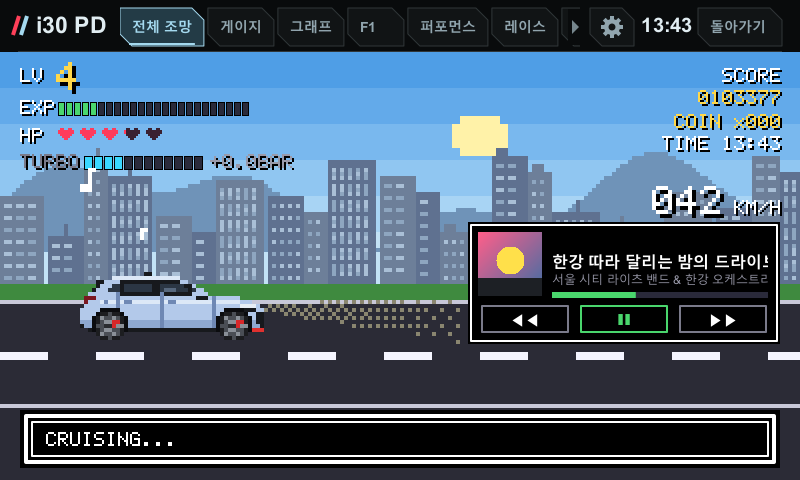
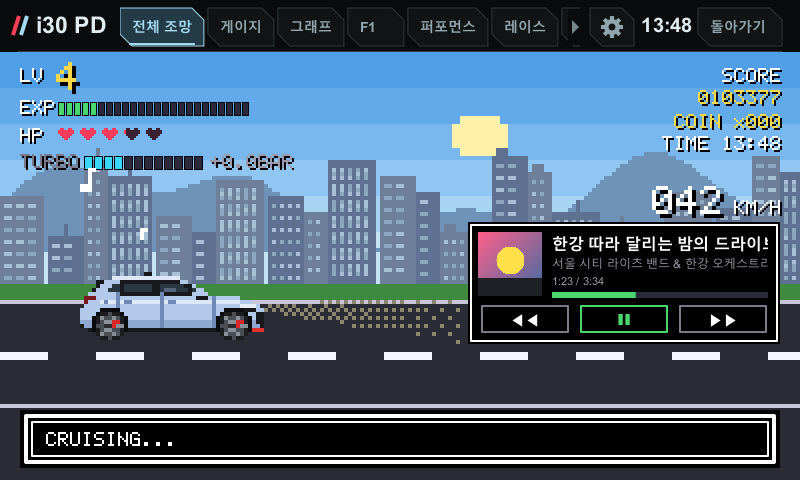
Music box: title and artist move up into the old PLAY row; elapsed / total in small type just above the bar, in 8비트 too

Changed region(s): [[0.6875, 0.4688, 0.9688, 0.5938], [0.9375, 0.2812, 1.0, 0.3125]]

diff --git a/shared/src/com/veloster/vehicle/PixelCluster.java b/shared/src/com/veloster/vehicle/PixelCluster.java
@@ -262,20 +262,19 @@ final class PixelCluster extends ClusterKit {
         String trk=music.title+"|"+music.artist;if(!trk.equals(mpTrack)){mpTrack=trk;mpSince=now;}   // a new track starts at its first letter
         fill(c,l,t,r,t+mpH(),0xff000000);outline(c,l+2,t+2,r-2,t+mpH()-2,0,2,W);
         String tm=null;
-        if(chase&&music.hasProgress()){long ps=Math.min(music.durationMs,music.positionMs+(pl?music.timeAgeMs:0))/1000,ds=music.durationMs/1000;   // Arcade only: one small line
+        if(music.hasProgress()){long ps=Math.min(music.durationMs,music.positionMs+(pl?music.timeAgeMs:0))/1000,ds=music.durationMs/1000;
             tm=String.format(Locale.US,"%d:%02d / %d:%02d",ps/60,ps%60,ds/60,ds%60);}
-        float tx,tw,ty,ay,by0;   // text column: left, width, title baseline, artist baseline, progress bar top
+        float tx,tw,ty,ay,my,by0;   // text column: left, width, title / artist / time baselines, progress bar top
         if(wide){   // cover left, text beside it, keys across the bottom
             fill(c,l+10,t+10,l+74,t+74,0xff1c303b);blit(c,artwork,0,0,artwork.getWidth(),artwork.getHeight(),l+10,t+10,l+74,t+74);
-            tx=l+84;tw=r-12-tx;ty=t+46;ay=t+62;by0=t+70;
+            tx=l+84;tw=r-12-tx;ty=t+28;ay=t+46;my=t+63;by0=t+70;
         }else if(art){
             fill(c,l+10,t+10,l+66,t+66,0xff1c303b);blit(c,artwork,0,0,artwork.getWidth(),artwork.getHeight(),l+10,t+10,l+66,t+66);
-            if(tm!=null)text(c,tm,l+76,t+52,11,0xff9a9aaa,Paint.Align.LEFT,Typeface.DEFAULT);
-            tx=l+10;tw=mpW()-20;ty=t+90;ay=t+108;by0=t+118;
-        }else{   // no cover: the time on the top row
-            if(tm!=null)text(c,tm,l+10,t+26,11,0xff9a9aaa,Paint.Align.LEFT,Typeface.DEFAULT);
-            tx=l+10;tw=mpW()-20;ty=t+90+o;ay=t+108+o;by0=t+118+o;
+            tx=l+10;tw=mpW()-20;ty=t+84;ay=t+100;my=t+113;by0=t+118;
+        }else{
+            tx=l+10;tw=mpW()-20;ty=t+72+o;ay=t+90+o;my=t+108+o;by0=t+118+o;
         }
+        if(tm!=null)text(c,tm,tx,my,11,0xff9a9aaa,Paint.Align.LEFT,Typeface.DEFAULT);   // small elapsed / total over the bar
         float sy=Math.max(0,now-mpSince-1500)/1000f;   // scrolling waits 1.5 s at the start of a track
         flow(c,music.title,tx,ty,tw,16,W,Typeface.DEFAULT_BOLD,sy*40);
         if(music.artist!=null&&music.artist.length()>0)flow(c,music.artist,tx,ay,tw,12,0xff9a9aaa,Typeface.DEFAULT,sy*34);
